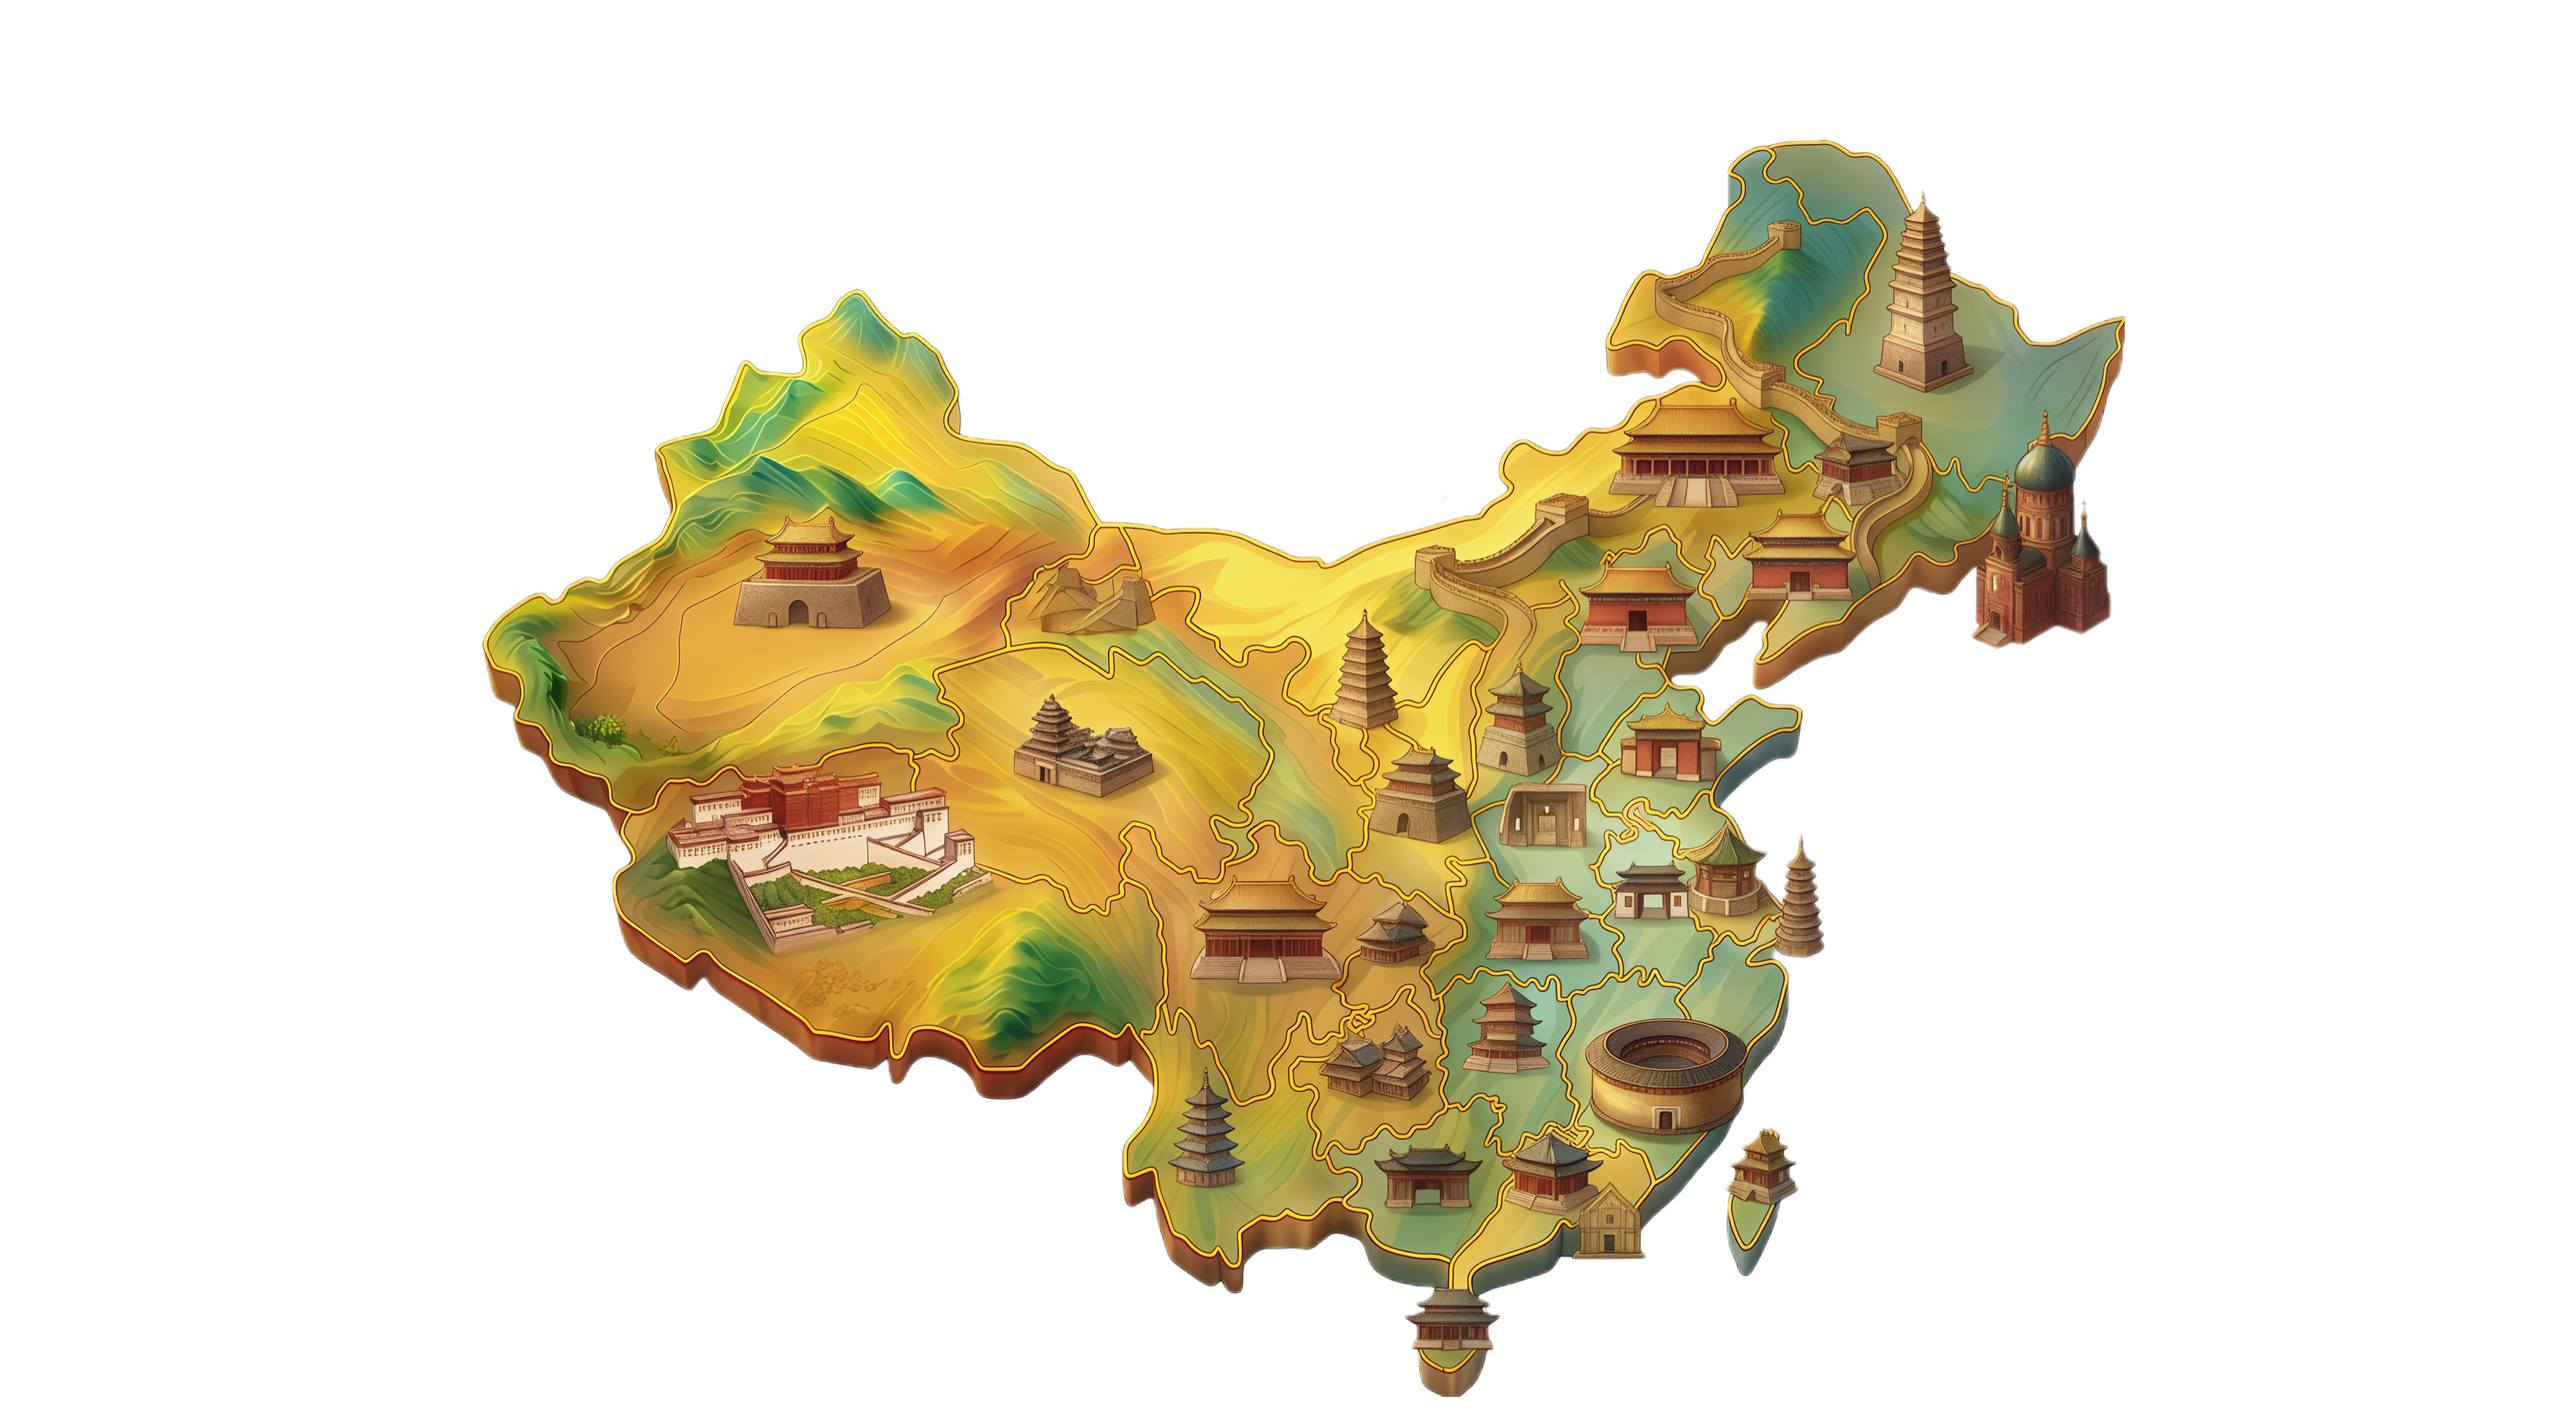
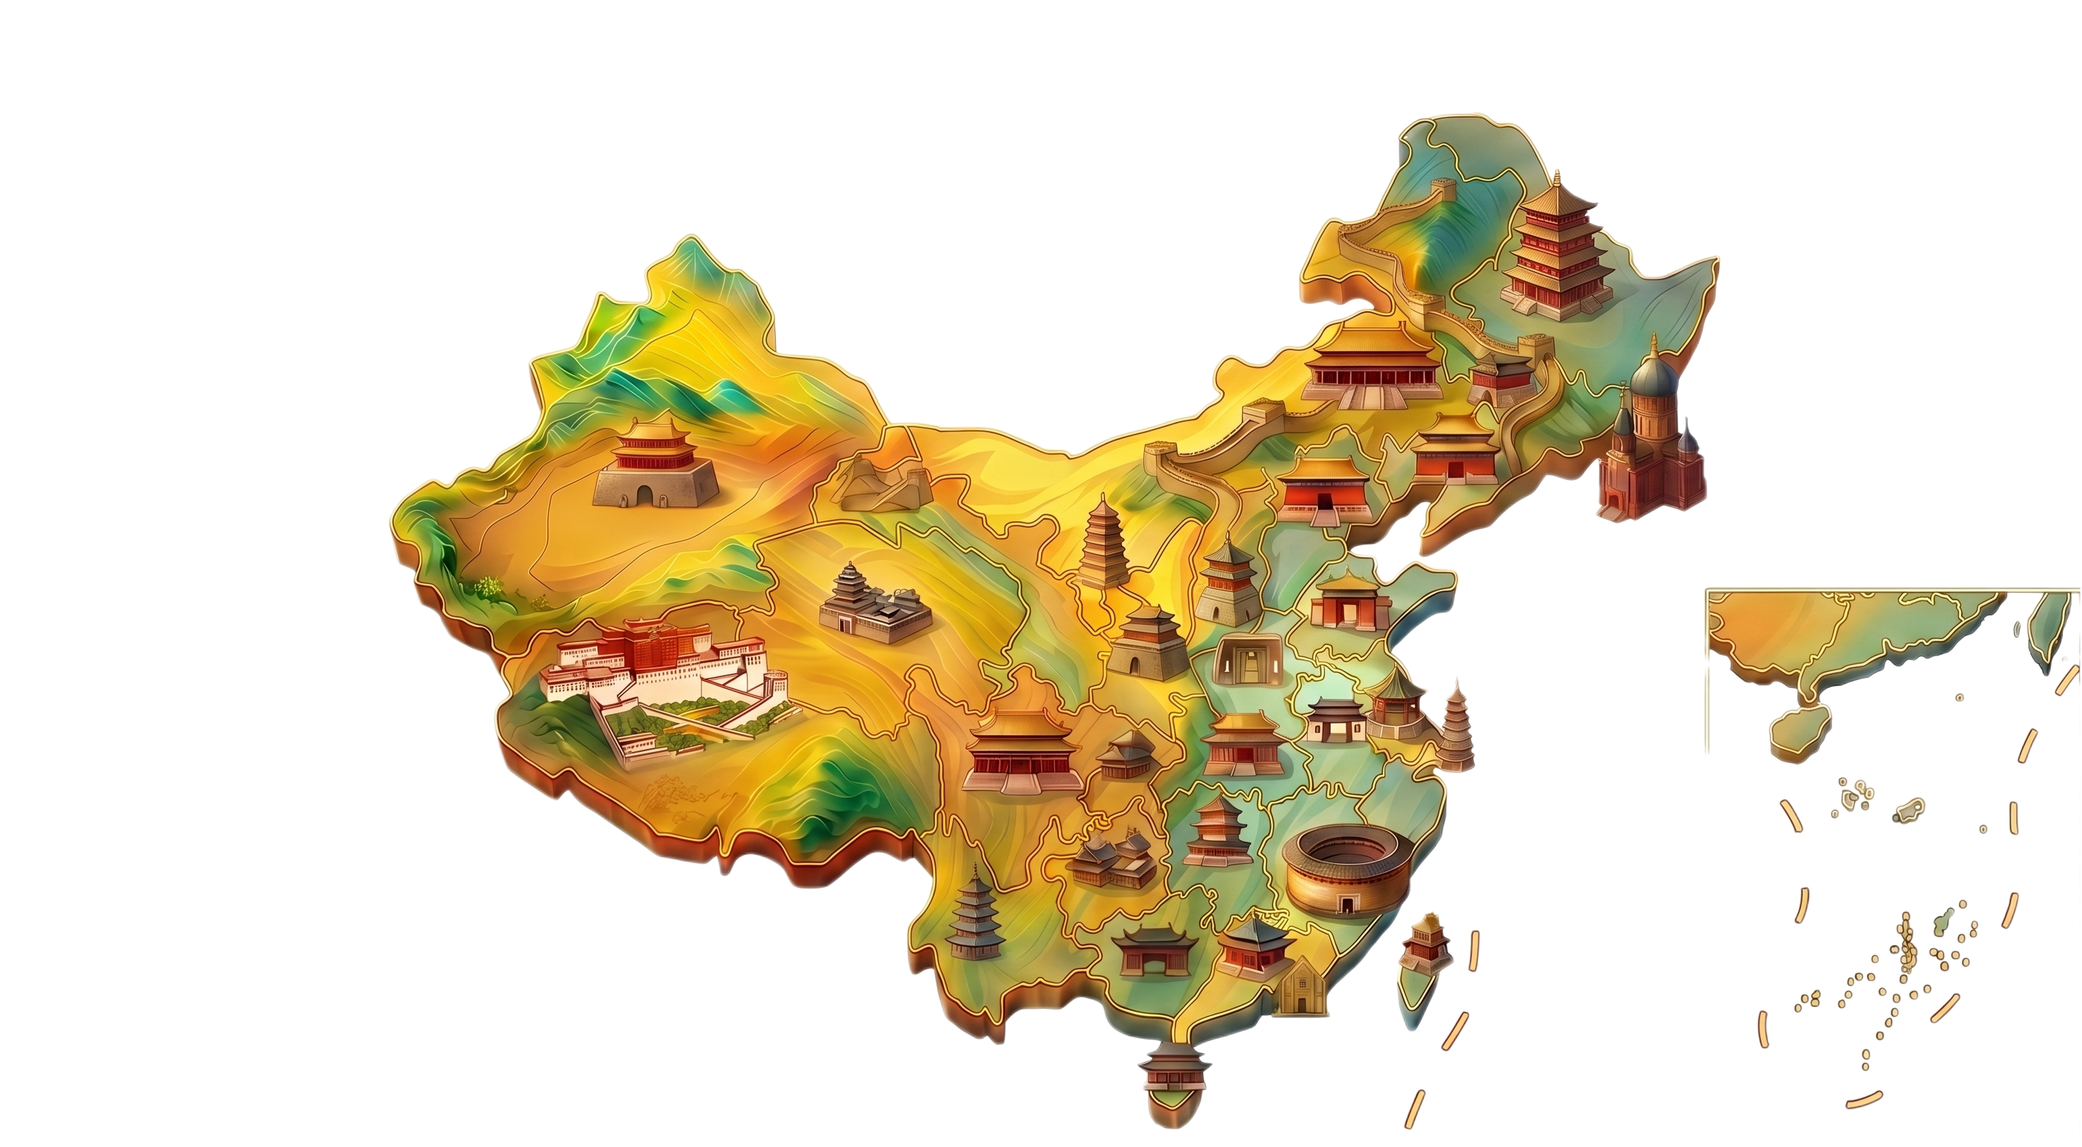
南海十字线

diff --git a/index.html b/index.html
@@ -265,7 +265,7 @@
         width: 100%;
         height: 100%;
         border-radius: 0;
-        overflow: hidden;
+        overflow: visible;
         outline: none;
         box-shadow: none;
         background: transparent;
@@ -285,24 +285,48 @@
         transform: translateZ(0);
       }
 
-      /* 地图与省份高亮、图标热区同层平移，避免只挪地图导致错位 */
+      /* 地图与省份高亮、图标热区同层，完整展示含南海十段线的全国范围 */
       .map-china-layer {
         position: absolute;
         inset: 0;
-        transform: translateY(-1.2vh);
+        display: flex;
+        align-items: flex-end;
+        justify-content: center;
         -webkit-backface-visibility: hidden;
         backface-visibility: hidden;
       }
 
+      .map-china-map-media {
+        position: relative;
+        flex: 0 0 auto;
+        line-height: 0;
+        overflow: hidden;
+      }
+
       #mapChinaMap {
+        position: absolute;
+        display: block !important;
+        max-width: none !important;
+        object-fit: fill !important;
+        object-position: left top !important;
         mix-blend-mode: normal;
         filter: brightness(1.04) saturate(1.02) contrast(1.02)
           drop-shadow(0 12px 40px rgba(20, 35, 25, 0.35));
-        object-fit: cover;
-        object-position: center 44%;
         -webkit-backface-visibility: hidden;
         backface-visibility: hidden;
         transform: translateZ(0);
+      }
+
+      /* 南海十字线岛礁附图外框：与底图同坐标系，仅突出右下角下方岛礁附图 */
+      .map-china-nanhai-frame {
+        position: absolute;
+        pointer-events: none;
+        z-index: 2;
+        box-sizing: border-box;
+        border: 1.5px solid rgba(255, 236, 195, 0.48);
+        border-radius: 3px;
+        background: rgba(255, 248, 230, 0.06);
+        box-shadow: 0 0 0 1px rgba(255, 255, 255, 0.1);
       }
 
       /* 左下角：浑天仪/罗盘线稿水印 */
@@ -502,10 +526,13 @@
                   onerror="this.onerror=null;this.src='https://cdn.jsdelivr.net/gh/shiyuan-1229/gujianzhu-web@main/assets/%E8%83%8C%E6%99%AF.png'"
                 />
               <div class="map-china-layer">
-                <div class="map-china-map-media absolute inset-0 z-[1]">
+                <div
+                  id="mapChinaMapMedia"
+                  class="map-china-map-media z-[1]"
+                >
                   <img
                     id="mapChinaMap"
-                    class="pointer-events-none absolute inset-0 z-0 h-full w-full select-none object-cover"
+                    class="pointer-events-none z-0 select-none"
                     src="./assets/index-map-china.png"
                     alt=""
                     decoding="async"
@@ -513,6 +540,7 @@
                     referrerpolicy="no-referrer"
                     onerror="this.onerror=null;this.src='https://cdn.jsdelivr.net/gh/shiyuan-1229/gujianzhu-web@main/assets/%E5%9C%B0%E5%9B%BE.png'"
                   />
+                  <div id="mapChinaNanhaiFrameLower" class="map-china-nanhai-frame" aria-hidden="true"></div>
                   <div id="chinaMapSvgAnchor" class="map-svg-overlay-anchor" aria-hidden="true">
                     <svg
                       id="chinaMapHotspotSvg"
@@ -670,10 +698,10 @@
                         <path class="map-hotspot-path" data-href="./list.html?province=台湾省" data-name-zh="台湾省" data-name-en="Taiwan" data-category="省份 · 海岛东南" data-desc="台湾传统聚落融合闽南、客家与海洋文化，红砖民居、街屋与宗祠建筑在防台风与适应湿热气候中形成鲜明特色。" d="M0.605225 125.108L5.10522 90.1083L0.605225 80.1083L11.1052 70.6083V61.6083L5.10522 48.6083L24.6052 40.1083L19.6052 27.6083L38.1052 17.6083L46.6052 0.608276L65.1052 6.60828V17.6083L84.6052 27.6083L75.1052 40.1083L94.1052 48.6083L84.6052 56.6083V70.6083L94.1052 90.1083L70.1052 99.6083L65.1052 109.108L38.1052 157.108L19.6052 163.108L0.605225 125.108Z" />
                       </g>
                     </svg>
+                    <!-- 省份交互热区容器（含四川补充热区），与底图锚点同坐标系 -->
+                    <div id="mapHotspots" class="absolute inset-0 z-[4]"></div>
                   </div>
                 </div>
-                <!-- 省份交互热区容器（含四川补充热区），悬停预览 / 点击跳转 -->
-                <div id="mapHotspots" class="absolute inset-0 z-[4]"></div>
               </div>
               <div id="mapStatus" class="pointer-events-none absolute inset-0 z-[5] flex items-center justify-center text-white/75 opacity-0">
                   <div>加载地图中</div>
@@ -732,6 +760,7 @@
     <script src="https://cdn.jsdelivr.net/npm/gsap@3/dist/ScrollTrigger.min.js"></script>
     <script src="./js/site-lang.js"></script>
     <script src="./js/map-svg-hotspots.js"></script>
+    <script src="./js/index-china-map-fit.js?v=20260621c"></script>
 
     <script>
       // 全局：确保字体渲染更细腻
@@ -1827,7 +1856,14 @@
         const anchor = document.getElementById("chinaMapSvgAnchor");
         const svg = document.getElementById("chinaMapHotspotSvg");
         if (root && img && anchor && svg && typeof window.initMapSvgHotspots === "function") {
-          window.initMapSvgHotspots({ root, img, anchor, svg });
+          const api = window.initMapSvgHotspots({ root, img, anchor, svg });
+          if (api && typeof api.layout === "function") {
+            window.__chinaMapHotspotLayout = api.layout;
+            if (typeof window.__registerChinaMapHotspotLayout === "function") {
+              window.__registerChinaMapHotspotLayout(api.layout);
+            }
+          }
+          if (typeof window.__fitChinaMapFull === "function") window.__fitChinaMapFull();
         }
       })();
 
@@ -1861,5 +1897,23 @@
         );
       })();
     </script>
+    <style id="china-map-full-override">
+      .map-china-layer {
+        display: flex !important;
+        align-items: flex-end !important;
+        justify-content: center !important;
+        transform: none !important;
+        overflow: visible !important;
+      }
+      .map-china-map-media {
+        overflow: hidden !important;
+      }
+      #mapChinaMap {
+        position: absolute !important;
+        max-width: none !important;
+        object-fit: fill !important;
+        object-position: left top !important;
+      }
+    </style>
   </body>
 </html>

diff --git a/js/index-china-map-fit.js b/js/index-china-map-fit.js
@@ -1,0 +1,211 @@
+/**
+
+ * 首页中国地图：按 PNG 实际不透明内容区域裁剪显示（含南海十段线附图）。
+
+ * 2788×1536 画布两侧有透明留白，按不透明内容区域裁剪显示。
+
+ */
+
+(function () {
+
+  var MAP_W = 2788;
+
+  var MAP_H = 1536;
+
+  /** 由 assets/index-map-china.png alpha 通道实测 */
+
+  var CONTENT = { x: 518, y: 149, w: 2269, h: 1366 };
+
+  /** 南海十字线岛礁附图外框（底图像素坐标，仅下方岛礁区域） */
+
+  var NANHAI_LOWER = { x: 2286, y: 790, w: 525, h: 790 };
+
+  var CONTENT_ASPECT = CONTENT.w / CONTENT.h;
+
+  var layoutFn = null;
+
+
+
+  function syncAppHeight() {
+
+    var app = document.getElementById("app");
+
+    if (app) app.style.height = window.innerHeight + "px";
+
+  }
+
+
+
+  function apply() {
+
+    var media = document.getElementById("mapChinaMapMedia");
+
+    var img = document.getElementById("mapChinaMap");
+
+    var layer = document.querySelector(".map-china-layer");
+
+    if (!media || !img) return;
+
+
+
+    syncAppHeight();
+
+
+
+    var padX = 28;
+
+    var padBottom = 88;
+
+    var nav = document.querySelector(".site-nav");
+
+    var navH = nav ? nav.offsetHeight : 72;
+
+    var availW = Math.max(320, window.innerWidth - padX * 2);
+
+    var availH = Math.max(260, window.innerHeight - navH - padBottom);
+
+
+
+    var w = Math.min(availW, availH * CONTENT_ASPECT);
+
+    var h = w / CONTENT_ASPECT;
+
+    var scale = w / CONTENT.w;
+
+    var imgW = MAP_W * scale;
+
+    var imgH = MAP_H * scale;
+
+    var offsetX = -CONTENT.x * scale;
+
+    var offsetY = -CONTENT.y * scale;
+
+
+
+    if (layer) {
+
+      layer.style.alignItems = "flex-end";
+
+      layer.style.justifyContent = "center";
+
+      layer.style.paddingBottom = padBottom + "px";
+
+    }
+
+
+
+    media.style.width = w + "px";
+
+    media.style.height = h + "px";
+
+    media.style.maxWidth = availW + "px";
+
+    media.style.flex = "0 0 auto";
+
+    media.style.position = "relative";
+
+    media.style.overflow = "hidden";
+
+
+
+    img.style.position = "absolute";
+
+    img.style.left = offsetX + "px";
+
+    img.style.top = offsetY + "px";
+
+    img.style.width = imgW + "px";
+
+    img.style.height = imgH + "px";
+
+    img.style.maxWidth = "none";
+
+    img.style.objectFit = "fill";
+
+    img.style.objectPosition = "left top";
+
+    img.style.display = "block";
+
+
+
+    var frame = document.getElementById("mapChinaNanhaiFrameLower");
+
+    if (frame) {
+
+      var framePad = 2;
+
+      var box = NANHAI_LOWER;
+
+      frame.style.left = (box.x - CONTENT.x - framePad) * scale + "px";
+
+      frame.style.top = (box.y - CONTENT.y - framePad) * scale + "px";
+
+      frame.style.width = (box.w + framePad * 2) * scale + "px";
+
+      frame.style.height = (box.h + framePad * 2) * scale + "px";
+
+    }
+
+
+
+    var relayout = layoutFn || window.__chinaMapHotspotLayout;
+
+    if (typeof relayout === "function") relayout();
+
+  }
+
+
+
+  window.__fitChinaMapFull = apply;
+
+  window.__registerChinaMapHotspotLayout = function (fn) {
+
+    layoutFn = fn;
+
+    apply();
+
+  };
+
+
+
+  function boot() {
+
+    apply();
+
+    var img = document.getElementById("mapChinaMap");
+
+    if (img && !img.complete) {
+
+      img.addEventListener("load", apply, { once: true });
+
+      img.addEventListener("error", apply, { once: true });
+
+    }
+
+    [0, 80, 300, 800].forEach(function (ms) {
+
+      window.setTimeout(apply, ms);
+
+    });
+
+  }
+
+
+
+  if (document.readyState === "loading") {
+
+    document.addEventListener("DOMContentLoaded", boot);
+
+  } else {
+
+    boot();
+
+  }
+
+  window.addEventListener("resize", apply);
+
+  window.addEventListener("load", apply);
+
+})();
+
+
